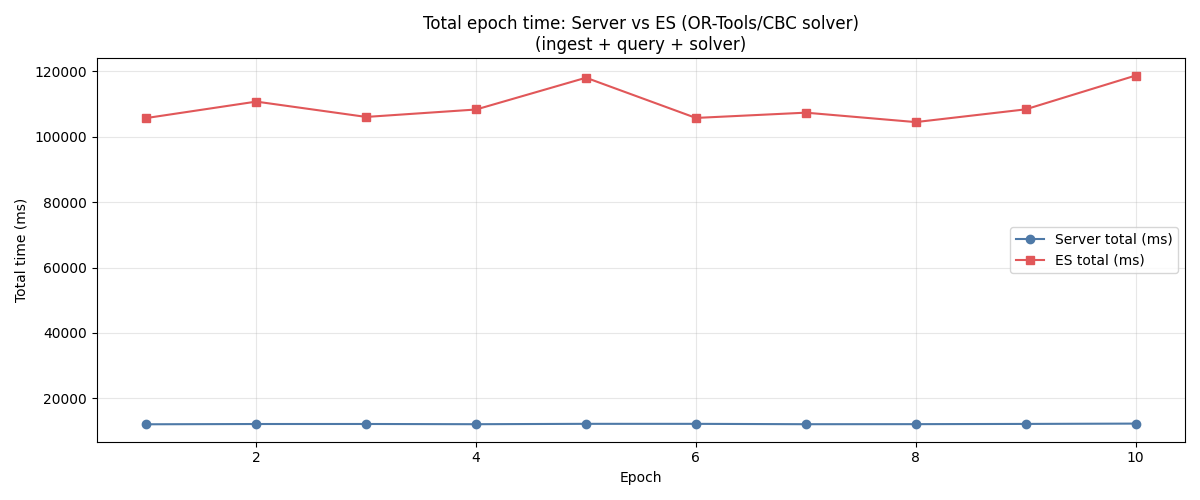
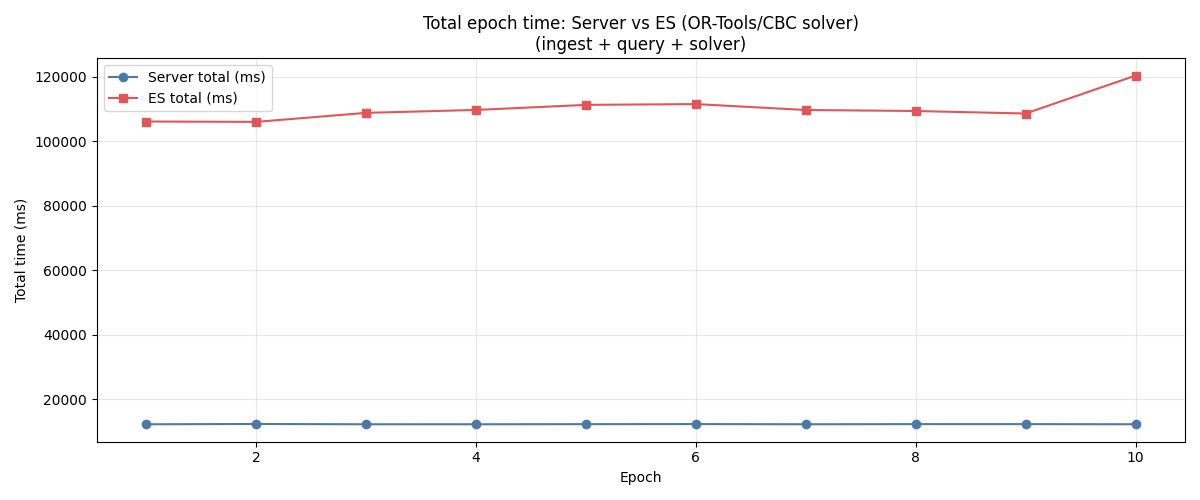
solver is working, with previous error to be incorrectly parsing the config file, but I feel it is still slow

diff --git a/scripts/rtt_sweep_common.py b/scripts/rtt_sweep_common.py
@@ -143,26 +143,48 @@ def resolve_repo_path(path_str: str) -> Path:
 # ---------------------------------------------------------------------------
 
 def parse_nodes_config(path: str) -> List[str]:
+    """Parse node IDs from server-config.yaml.
+
+    Supports the current range_key_catalog format (format + start + end)
+    and the legacy node_catalog format (range.start/end as string IDs).
+    """
+    import yaml  # available via serde_yaml's Python equivalent
+
     cfg_path = Path(path)
     if not cfg_path.is_absolute() and not cfg_path.exists():
         cfg_path = REPO_ROOT / cfg_path
-    start = None
-    end = None
     with open(cfg_path, "r", encoding="utf-8") as fh:
-        for line in fh:
-            line = line.strip()
-            if line.startswith("start:"):
-                start = line.split(":", 1)[1].strip().strip('"').strip("'")
-            elif line.startswith("end:"):
-                end = line.split(":", 1)[1].strip().strip('"').strip("'")
-    if not start or not end:
-        raise ValueError("nodes-config.yaml missing start/end")
-    prefix_start, start_num = start[:-3], int(start[-3:])
-    prefix_end, end_num = end[:-3], int(end[-3:])
+        cfg = yaml.safe_load(fh)
+
+    storage = cfg.get("storage", {})
+
+    # New format: range_key_catalog with format/start/end
+    rkc = storage.get("range_key_catalog") or storage.get("node_catalog", {}).get("range_key_catalog")
+    if rkc and "format" in rkc:
+        fmt = rkc["format"]
+        start = int(rkc["start"])
+        end = int(rkc["end"])
+        nodes = []
+        for i in range(start, end + 1):
+            # Support both {} and {:0N} placeholders
+            if "{}" in fmt:
+                nodes.append(fmt.replace("{}", str(i), 1))
+            else:
+                nodes.append(fmt.format(i))
+        return nodes
+
+    # Legacy format: node_catalog.range with start/end as string IDs like "N001"
+    nc = storage.get("node_catalog", {})
+    rng = nc.get("range", {})
+    start_id = rng.get("start")
+    end_id = rng.get("end")
+    if not start_id or not end_id:
+        raise ValueError("server-config.yaml missing range_key_catalog or node_catalog.range")
+    prefix_start, start_num = start_id[:-3], int(start_id[-3:])
+    prefix_end, end_num = end_id[:-3], int(end_id[-3:])
     if prefix_start != prefix_end:
         raise ValueError("node id prefixes do not match")
-    nodes = [f"{prefix_start}{i:03d}" for i in range(start_num, end_num + 1)]
-    return nodes
+    return [f"{prefix_start}{i:03d}" for i in range(start_num, end_num + 1)]
 
 
 # ---------------------------------------------------------------------------